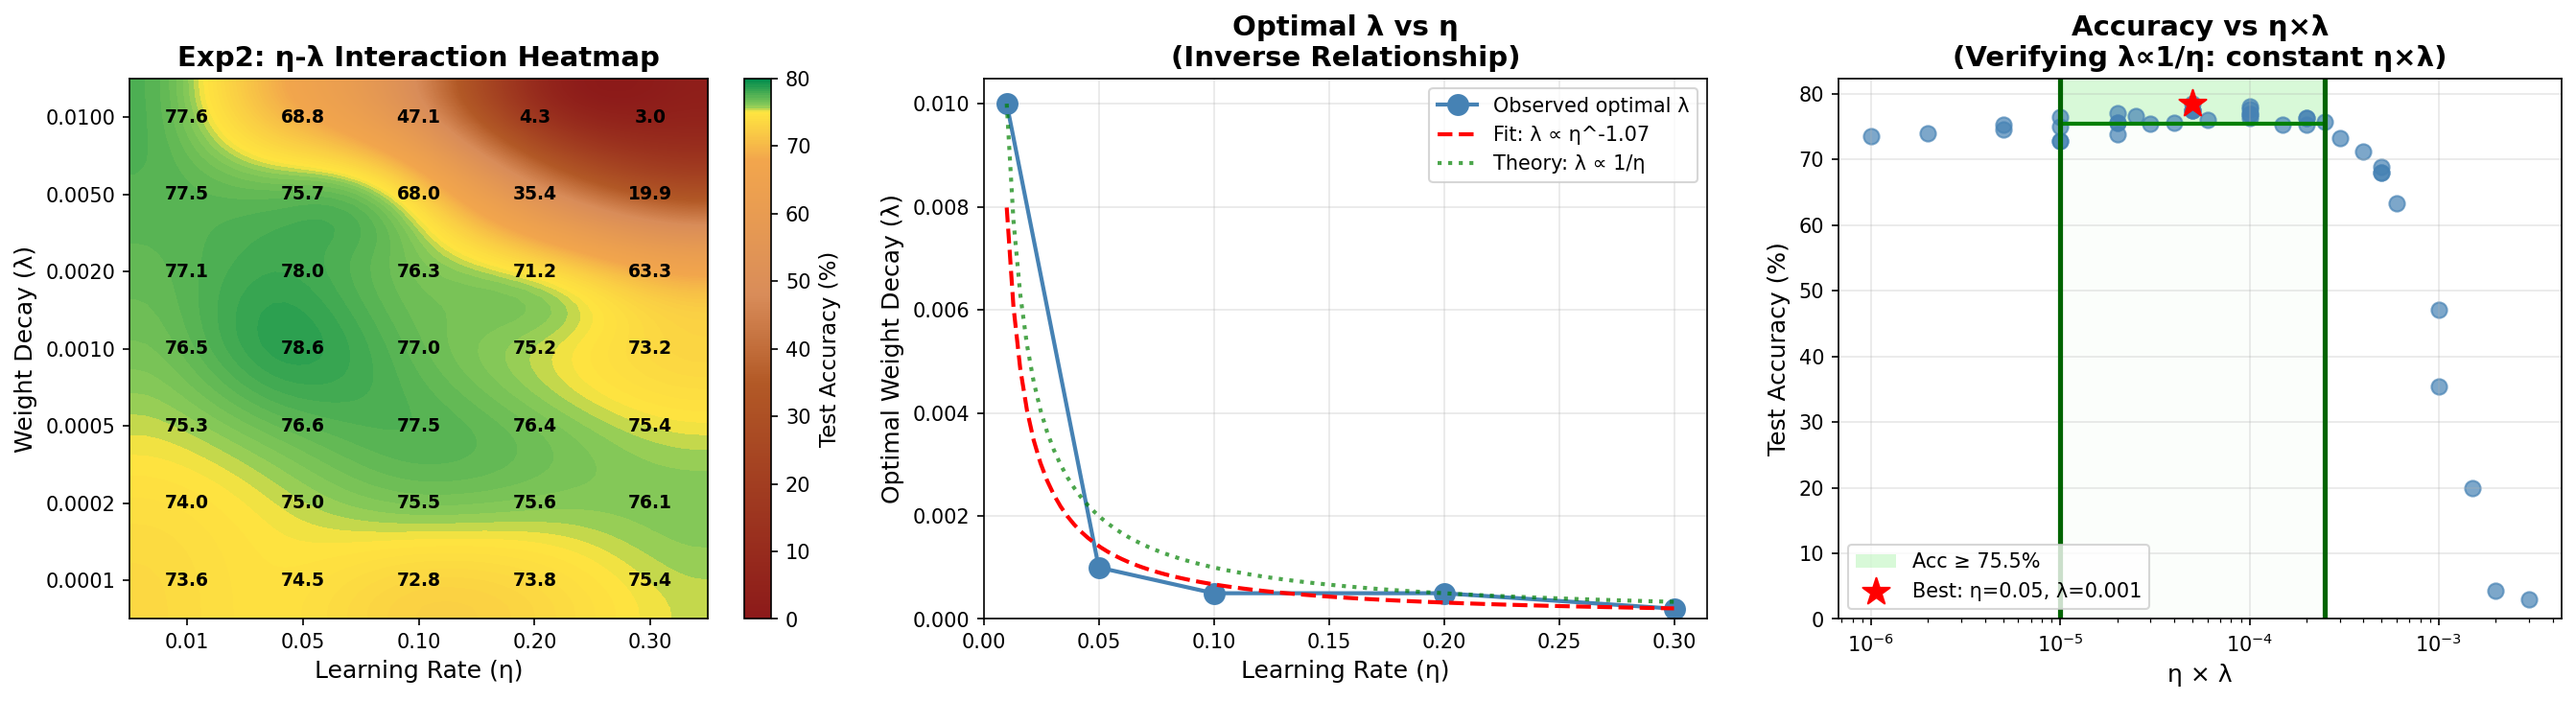
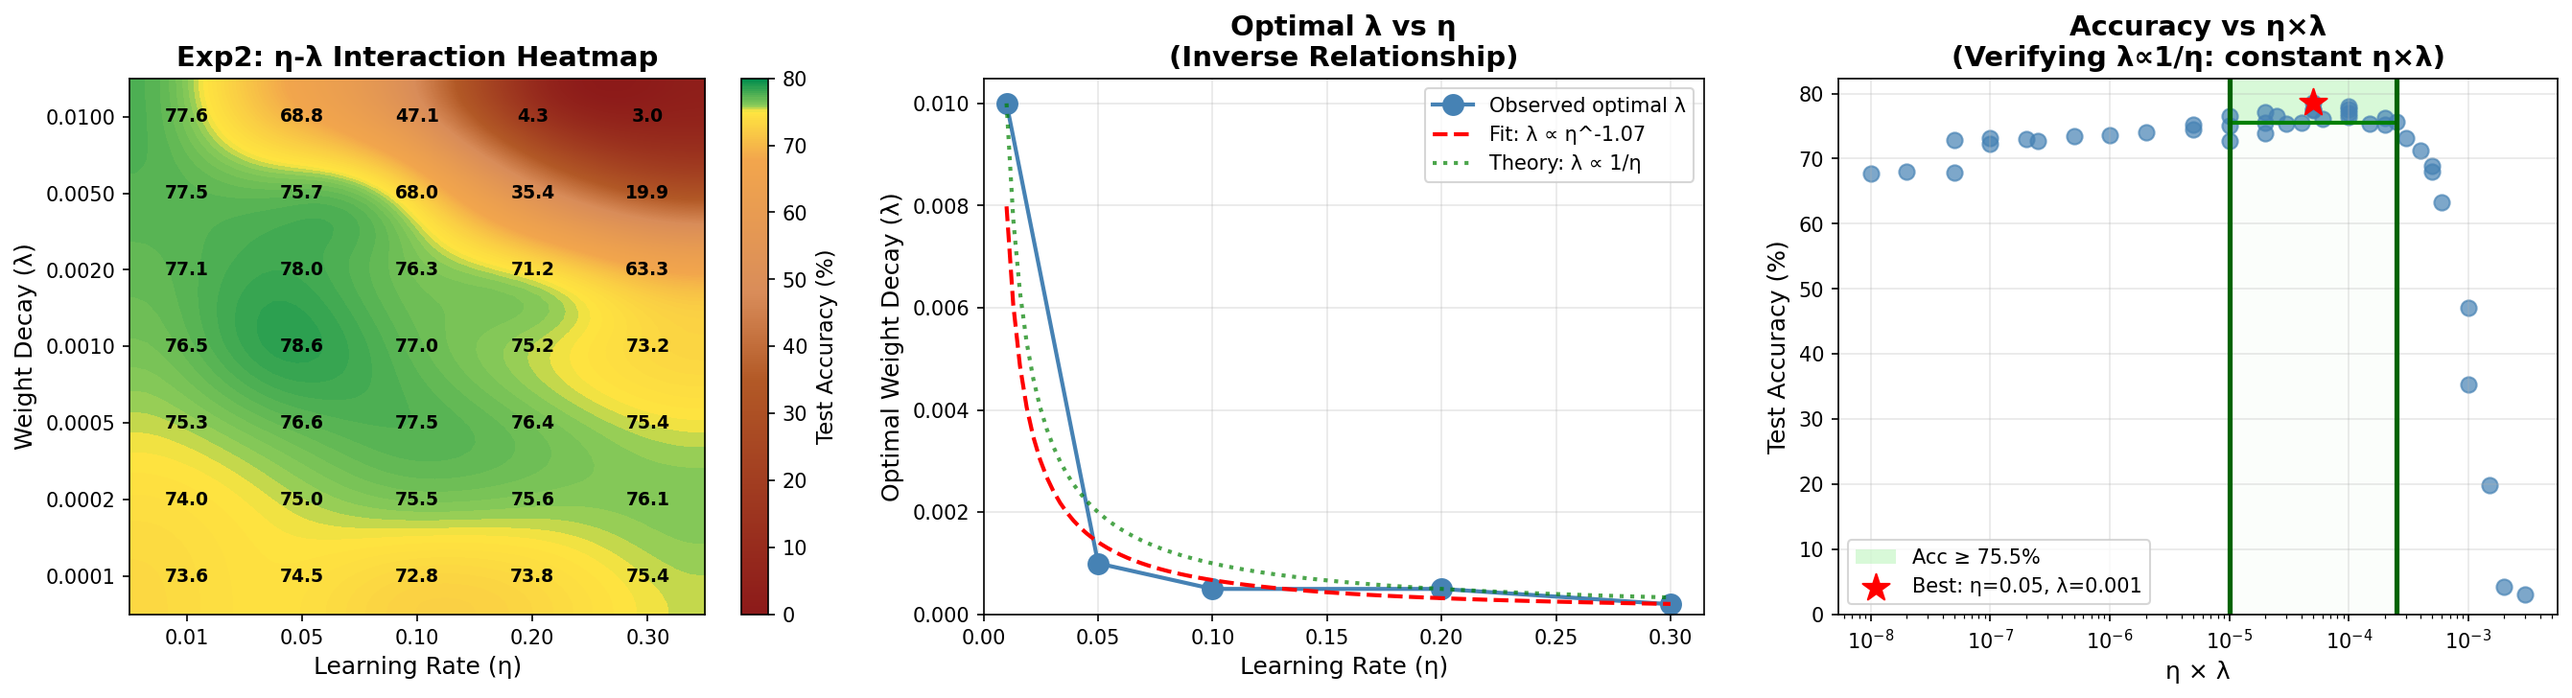
update p2

diff --git a/run_exp2_supplement.py b/run_exp2_supplement.py
@@ -1,0 +1,199 @@
+"""
+Supplementary experiments for Exp2: Add smaller η×λ values to show drop trend
+
+Current η×λ range: 1e-6 to 3e-3
+Target: Add points in 1e-8 to 1e-6 range to show accuracy drop on the left side
+
+Strategy:
+- Use very small lr and/or very small wd combinations
+- Focus on SGDM method with batch_size=128 to match existing exp2 data
+"""
+
+import argparse
+import pandas as pd
+import numpy as np
+from pathlib import Path
+import torch
+import torch.nn as nn
+import torch.optim as optim
+from torchvision import datasets, transforms
+from torch.utils.data import DataLoader
+
+from models import resnet18
+from utils import set_seed, train_model
+from gpu_scheduler import GPUScheduler, parse_gpu_ids
+from logger import get_logger
+
+
+def get_cifar100_loaders(batch_size=128, num_workers=2):
+    """Load CIFAR-100 dataset with standard augmentation"""
+    transform_train = transforms.Compose([
+        transforms.RandomCrop(32, padding=4),
+        transforms.RandomHorizontalFlip(),
+        transforms.ToTensor(),
+        transforms.Normalize((0.5071, 0.4867, 0.4408), (0.2675, 0.2565, 0.2761)),
+    ])
+    transform_test = transforms.Compose([
+        transforms.ToTensor(),
+        transforms.Normalize((0.5071, 0.4867, 0.4408), (0.2675, 0.2565, 0.2761)),
+    ])
+    
+    trainset = datasets.CIFAR100(root='./data', train=True, download=True, transform=transform_train)
+    testset = datasets.CIFAR100(root='./data', train=False, download=True, transform=transform_test)
+    
+    train_loader = DataLoader(trainset, batch_size=batch_size, shuffle=True, num_workers=num_workers)
+    test_loader = DataLoader(testset, batch_size=batch_size, shuffle=False, num_workers=num_workers)
+    
+    return train_loader, test_loader
+
+
+def run_single_experiment_worker(method, batch_size, lr, wd, momentum, epochs, seed, use_amp, save_checkpoints=False):
+    """Worker function for running a single experiment."""
+    set_seed(seed)
+    
+    train_loader, test_loader = get_cifar100_loaders(batch_size)
+    
+    model = resnet18(num_classes=100)
+    device = torch.device('cuda' if torch.cuda.is_available() else 'cpu')
+    model = model.to(device)
+    
+    if method == 'SGDM':
+        optimizer = optim.SGD(model.parameters(), lr=lr, momentum=momentum, weight_decay=wd)
+    else:
+        raise ValueError(f"Unknown method: {method}")
+    
+    scheduler = optim.lr_scheduler.CosineAnnealingLR(optimizer, T_max=epochs)
+    
+    best_test_acc, final_test_acc, final_train_loss = train_model(
+        model, train_loader, test_loader, optimizer, scheduler,
+        device=device, epochs=epochs, use_amp=use_amp
+    )
+    
+    return {
+        'method': method,
+        'batch_size': batch_size,
+        'lr': lr,
+        'wd': wd,
+        'momentum': momentum,
+        'final_test_acc': final_test_acc,
+        'final_train_loss': final_train_loss,
+        'best_test_acc': best_test_acc
+    }
+
+
+def run_supplement_experiments(gpu_ids, epochs=100, seed=42, use_amp=True, logger=None, workers_per_gpu=3):
+    """
+    Run supplementary experiments with small η×λ values.
+    
+    Target η×λ range: 1e-8 to 1e-6 (to show drop on left side of plot)
+    
+    Combinations to test:
+    - lr=0.001, wd=1e-5, 2e-5, 5e-5 -> η×λ = 1e-8, 2e-8, 5e-8
+    - lr=0.005, wd=1e-5, 2e-5 -> η×λ = 5e-8, 1e-7
+    - lr=0.01, wd=1e-5, 2e-5, 5e-5 -> η×λ = 1e-7, 2e-7, 5e-7
+    """
+    if logger:
+        logger.info("=" * 60)
+        logger.info("Exp2 Supplement: Small η×λ values for drop trend")
+        logger.info("=" * 60)
+    
+    # Define experiment configurations
+    # Focus on small wd values with various lr
+    tasks = []
+    
+    # Very small η×λ combinations (target: 1e-8 to 1e-6)
+    small_wd_values = [1e-5, 2e-5, 5e-5]
+    lr_values = [0.001, 0.005, 0.01]
+    
+    for lr in lr_values:
+        for wd in small_wd_values:
+            eta_lambda = lr * wd
+            if eta_lambda < 1e-6:  # Only add if smaller than current minimum
+                tasks.append(('SGDM', 128, lr, wd, 0.9, epochs, seed, use_amp))
+    
+    if logger:
+        logger.info(f"Total experiments to run: {len(tasks)}")
+        logger.info(f"Workers per GPU: {workers_per_gpu}")
+        for method, bs, lr, wd, mom, ep, sd, amp in tasks:
+            eta_lambda = lr * wd
+            logger.info(f"  lr={lr}, wd={wd:.1e} -> η×λ={eta_lambda:.1e}")
+    
+    # Use GPUScheduler for parallel execution
+    scheduler = GPUScheduler(gpu_ids, verbose=True, workers_per_gpu=workers_per_gpu)
+    
+    def on_complete(result):
+        if logger and result:
+            logger.info(f"Completed: lr={result['lr']}, wd={result['wd']:.1e}, "
+                       f"acc={result['best_test_acc']:.2f}%")
+    
+    results = scheduler.run_tasks(tasks, run_single_experiment_worker, on_complete=on_complete)
+    
+    return results
+
+
+def save_results(results, output_file, logger=None):
+    """Save results to CSV file, appending to existing data"""
+    df_new = pd.DataFrame(results)
+    
+    # Load existing results and append
+    existing_file = Path('outputs/results/results.csv')
+    if existing_file.exists():
+        df_existing = pd.read_csv(existing_file)
+        df_combined = pd.concat([df_existing, df_new], ignore_index=True)
+        # Remove duplicates based on key columns
+        df_combined = df_combined.drop_duplicates(
+            subset=['method', 'batch_size', 'lr', 'wd', 'momentum'],
+            keep='last'
+        )
+    else:
+        df_combined = df_new
+    
+    df_combined.to_csv(output_file, index=False)
+    
+    if logger:
+        logger.info(f"Results saved to {output_file}")
+        logger.info(f"Total entries: {len(df_combined)}")
+
+
+def main():
+    parser = argparse.ArgumentParser(description='Exp2 Supplement: Small η×λ experiments')
+    parser.add_argument('--gpus', type=str, default='0', help='GPU IDs (e.g., 0,1,2)')
+    parser.add_argument('--epochs', type=int, default=100, help='Training epochs')
+    parser.add_argument('--seed', type=int, default=42, help='Random seed')
+    parser.add_argument('--no-amp', action='store_true', help='Disable AMP')
+    args = parser.parse_args()
+    
+    gpu_ids = parse_gpu_ids(args.gpus)
+    use_amp = not args.no_amp
+    
+    # Setup output
+    output_dir = Path('outputs/results')
+    output_dir.mkdir(parents=True, exist_ok=True)
+    output_file = output_dir / 'results.csv'
+    
+    # Setup logger
+    logger = get_logger('exp2_supplement')
+    
+    logger.info("=" * 60)
+    logger.info("Exp2 Supplement: Extending η×λ range to smaller values")
+    logger.info("=" * 60)
+    logger.info(f"GPUs: {gpu_ids}")
+    logger.info(f"Epochs: {args.epochs}")
+    logger.info(f"Seed: {args.seed}")
+    logger.info(f"AMP: {use_amp}")
+    
+    # Run experiments
+    results = run_supplement_experiments(
+        gpu_ids, args.epochs, args.seed, use_amp, logger
+    )
+    
+    # Save results
+    save_results(results, output_file, logger)
+    
+    logger.info("=" * 60)
+    logger.info("Experiments completed!")
+    logger.info("=" * 60)
+
+
+if __name__ == '__main__':
+    main()

diff --git a/plot_exp2_fixed.py b/plot_exp2_fixed.py
@@ -114,13 +114,17 @@ def plot_exp2_heatmap_fixed(df, output_dir):
     - All English labels
     """
     # Filter SGDM data with batch_size=128
-    exp2_df = df[(df['method'] == 'SGDM') & (df['batch_size'] == 128)].copy()
+    exp2_df_all = df[(df['method'] == 'SGDM') & (df['batch_size'] == 128)].copy()
+    
+    # For plots 1 and 2: use only original data (wd >= 0.0001, lr >= 0.01)
+    # This excludes the new supplement data with smaller wd and lr values
+    exp2_df = exp2_df_all[(exp2_df_all['wd'] >= 0.0001) & (exp2_df_all['lr'] >= 0.01)].copy()
 
     if exp2_df.empty:
         print("No data for Experiment 2")
         return
 
-    # Create pivot table
+    # Create pivot table for heatmap (using original data only)
     pivot = exp2_df.pivot_table(
         values='best_test_acc',
         index='wd',
@@ -281,11 +285,11 @@ def plot_exp2_heatmap_fixed(df, output_dir):
     ax2.set_xlim(left=0)
     ax2.set_ylim(bottom=0)
 
-    # Plot 3: Accuracy vs eta*lambda
+    # Plot 3: Accuracy vs eta*lambda (using ALL data including supplement)
     ax3 = axes[2]
-    exp2_df['eta_lambda'] = exp2_df['lr'] * exp2_df['wd']
+    exp2_df_all['eta_lambda'] = exp2_df_all['lr'] * exp2_df_all['wd']
 
-    ax3.scatter(exp2_df['eta_lambda'], exp2_df['best_test_acc'],
+    ax3.scatter(exp2_df_all['eta_lambda'], exp2_df_all['best_test_acc'],
                 alpha=0.7, s=60, c='steelblue')
 
     ax3.set_xscale('log')
@@ -297,7 +301,7 @@ def plot_exp2_heatmap_fixed(df, output_dir):
 
     # Add light green background region for points with accuracy >= 75.5
     high_acc_threshold = 75.5
-    high_acc_points = exp2_df[exp2_df['best_test_acc'] >= high_acc_threshold]
+    high_acc_points = exp2_df_all[exp2_df_all['best_test_acc'] >= high_acc_threshold]
     if not high_acc_points.empty:
         # Use exact x range of high accuracy points (no margin)
         box_x_min = high_acc_points['eta_lambda'].min()
@@ -341,9 +345,9 @@ def plot_exp2_heatmap_fixed(df, output_dir):
         ax3.axvline(x=box_x_min, color='darkgreen', linewidth=2.5, linestyle='-', zorder=2)
         ax3.axvline(x=box_x_max, color='darkgreen', linewidth=2.5, linestyle='-', zorder=2)
 
-    # Mark optimal point
-    best_idx = exp2_df['best_test_acc'].idxmax()
-    best_row = exp2_df.loc[best_idx]
+    # Mark optimal point (from all data)
+    best_idx = exp2_df_all['best_test_acc'].idxmax()
+    best_row = exp2_df_all.loc[best_idx]
     ax3.scatter([best_row['eta_lambda']], [best_row['best_test_acc']],
                 s=200, c='red', marker='*', zorder=5,
                 label=f'Best: η={best_row["lr"]}, λ={best_row["wd"]}')
